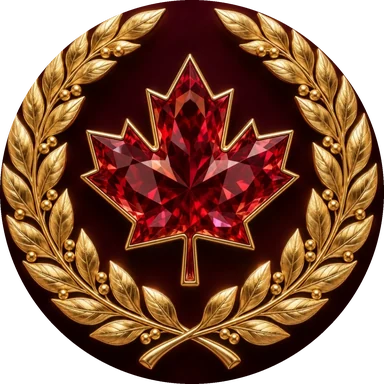
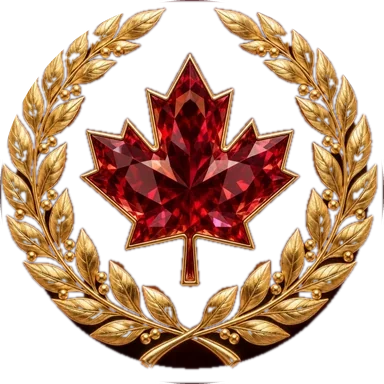
Şeffaf üst bar ve zeminsiz amblem (#261)
* Ana sayfa üst barı şeffaf yapıldı

Claude-Session: https://claude.ai/code/session_012eqC4oSSm6kBSYpBaJPx54

* Amblemin bordo zemini kaldırıldı (şeffaf)

Claude-Session: https://claude.ai/code/session_012eqC4oSSm6kBSYpBaJPx54

---------

diff --git a/index.html b/index.html
@@ -176,10 +176,10 @@ html[data-restoring-tab] #pg-land{display:none}
 html[data-restoring-tab] #pg-app{display:block}
 
 /* ── TOPBAR ── */
-.topbar{position:fixed;top:0;left:0;right:0;z-index:200;border-bottom:0;background:linear-gradient(115deg,transparent 30%,rgba(255,255,255,.1) 45%,transparent 60%),repeating-linear-gradient(90deg,rgba(255,255,255,.025) 0 1px,transparent 1px 3px,rgba(0,0,0,.04) 3px 4px),linear-gradient(180deg,#3d0309 0%,#2a0206 50%,#1c0003 100%);box-shadow:inset 0 1px 0 rgba(255,255,255,.35),inset 0 -1px 0 rgba(0,0,0,.4)}
+.topbar{position:fixed;top:0;left:0;right:0;z-index:200;border-bottom:0;background:transparent}
 .topbar::before{content:"";position:absolute;inset:0;pointer-events:none;opacity:.9;background:radial-gradient(1px 1px at 22% 30%,#fff,transparent),radial-gradient(1px 1px at 31% 72%,#fff,transparent),radial-gradient(1.5px 1.5px at 68% 24%,#fff,transparent),radial-gradient(1px 1px at 79% 66%,#fff,transparent),radial-gradient(1px 1px at 88% 38%,#fff,transparent),radial-gradient(1.5px 1.5px at 14% 60%,#fff,transparent);animation:tbStars 4s ease-in-out infinite}
 @keyframes tbStars{0%,100%{opacity:.35}50%{opacity:.95}}
-.topbar::after{content:"";position:absolute;left:0;right:0;bottom:0;height:2px;background:linear-gradient(180deg,rgba(255,255,255,.75),rgba(150,150,170,.6));box-shadow:0 1px 0 rgba(0,0,0,.5);pointer-events:none}
+.topbar::after{content:none}
 .topbar-inner{max-width:1080px;margin:0 auto;padding:0 20px;height:46px;display:flex;align-items:center;justify-content:space-between;width:100%}
 .logo-btn{background:none;border:none;cursor:pointer;padding:0;display:flex;align-items:center;height:46px}
 .topbar-right{display:flex;align-items:center;gap:8px;height:46px}
